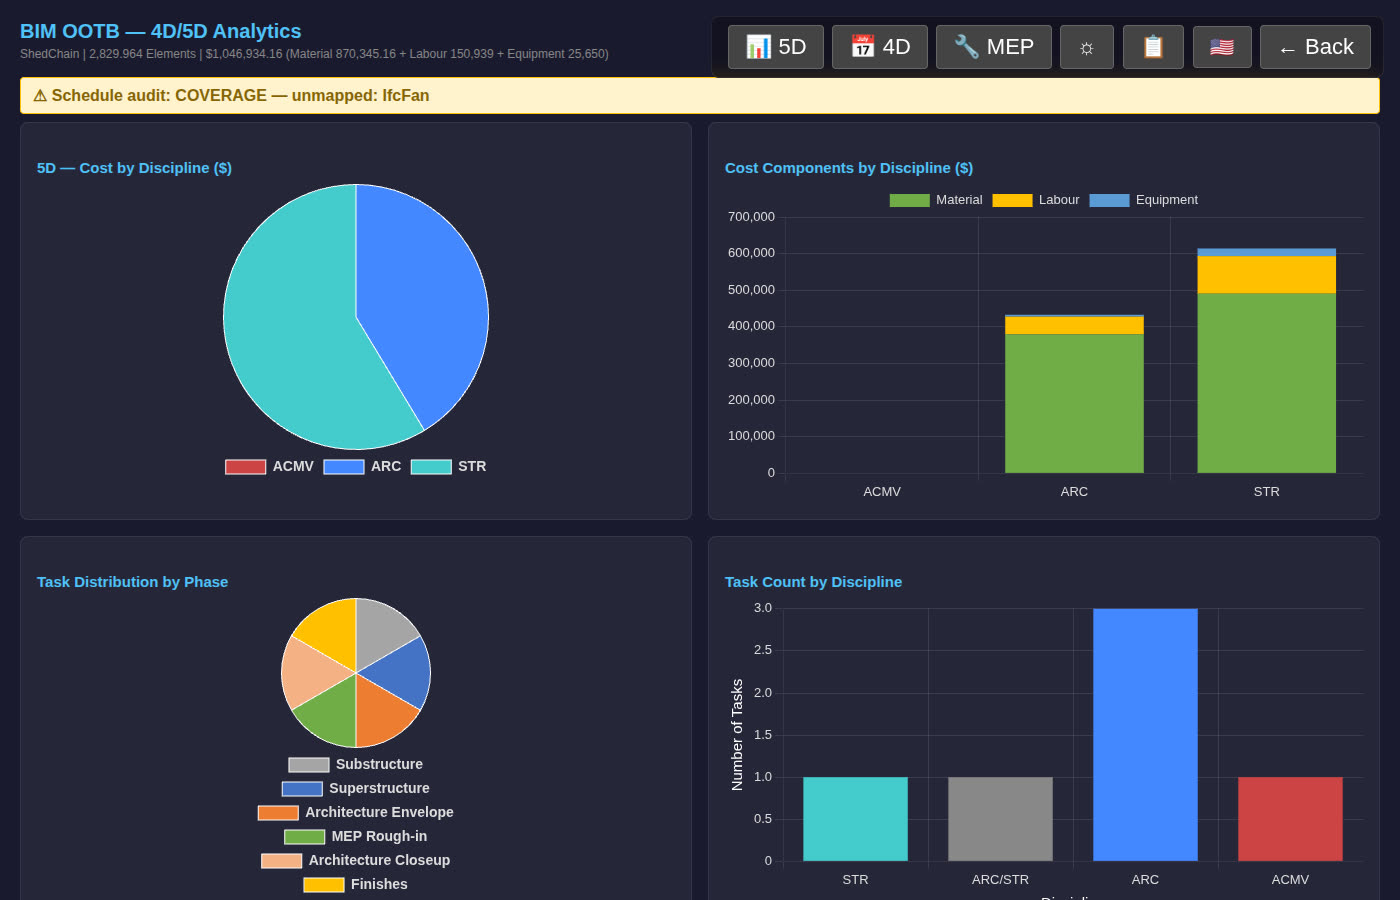
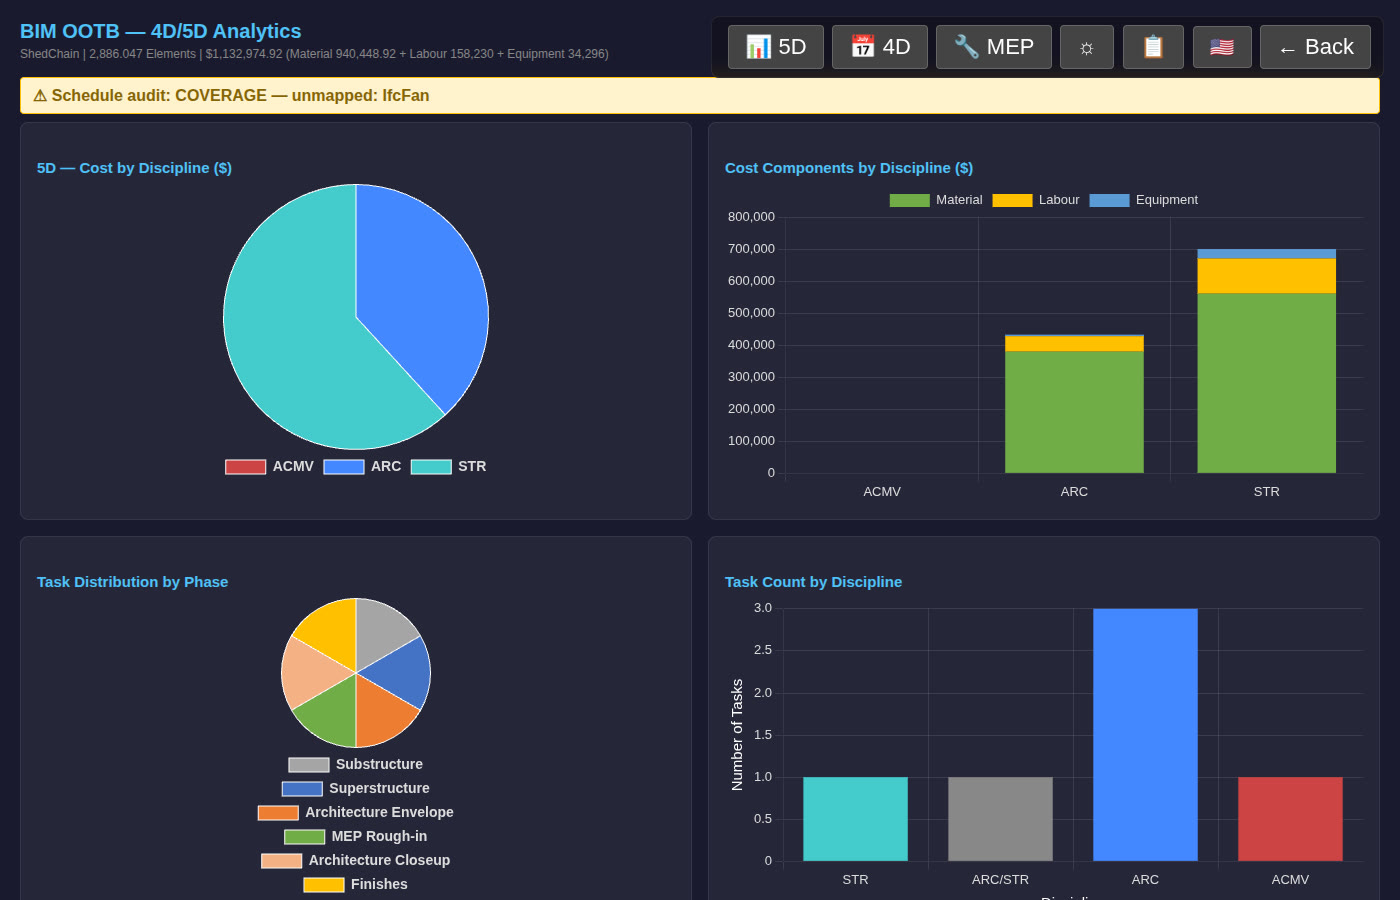
docs(DXF2BIM): nine-sheet shed (details sheet: notes, schedules, below-grade column), 512 bodies, 43 settings, re-measured POC numbers + screenshots, yellow list rows

diff --git a/docs/DXF2BIMGuide.md b/docs/DXF2BIMGuide.md
@@ -138,8 +138,9 @@ drawing and its schedule is reported (`GAP:schedule_conflict`), never silently r
 
 ## A building drawn only in 2D: a farm shed
 
-A common CAD set (here a BricsCAD drawing set saved as DXF) with **no 3D model behind it**: eight sheets, a floor
-plan, four elevations, a beam layout, a foundation plan and a truss section. There is no answer key, so the check
+A common CAD set (here a BricsCAD drawing set saved as DXF) with **no 3D model behind it**: nine sheets, a floor
+plan, four elevations, a beam layout, a foundation plan, a truss section and a details sheet (grades, casting
+ratios, footing and column schedules). There is no answer key, so the check
 is different: every body traces to a drawn entity, a setting you stated, or a **yellow default** you can see.
 The method (units, grid from dimension ticks, level and datum) is the same as above; what differs is that the
 building is made of **bodies** read from layers you type, not of walls and slabs.
@@ -156,12 +157,23 @@ building is made of **bodies** read from layers you type, not of walls and slabs
    would build false bodies (an expansion-joint strip).
 5. **Complete the building** (optional): adds the floor slab and gabled roof the drawings imply, in amber, with
    their thickness listed as yellow defaults.
-6. **Convert.** The whole shed lands on the canvas: 448 bodies (32 columns, 32 footings, 35 beams, 41 wall panels,
-   13 fans, 3 nets, 4 doors, the truss members and plates, a slab and a roof). Each body is in its **material's
+6. **Convert.** The whole shed lands on the canvas: 512 bodies (96 column parts: 32 columns, each with a below-grade
+   part and a grade-to-base part; 32 footings, 35 beams, 41 wall panels, 13 fans, 3 nets, 4 doors, the truss members
+   and plates, a slab and a roof). Each body is in its **material's
    standard colour** and carries its class, the drawing's own type label, its material, its storey and its
    **source** (sheet, handle, layer, how each size was obtained).
 
-![The converted shed on the canvas: material colours, 448 bodies](img/dxf2bim/shed_canvas.jpg)
+   **The details sheet.** A sheet that states notes but draws no body (it has no role) is accepted as a *notes sheet*,
+   not refused. Its text is read by a fixed grammar and carried as properties, each with the cell it came from:
+   the concrete grade (f'c, fy) on every concrete body, each casting ratio on exactly the elements it names (footing,
+   column, grade beam, floor: not the beams), and the **footing and column schedules**, read by cell position
+   against their headers, on the footings and columns (the schedule has one row per kind and the bodies carry no
+   type name, so the properties say *single schedule row*). The column schedule also states a larger section
+   **below grade** (14 x 14 in): each column then continues from its footing to grade at that section, with no
+   setting typed (a stated `@DEFAULT` still wins). Not built, because the drawings give only labels: the false
+   ceiling and the slats of the cross-section.
+
+![The converted shed on the canvas: material colours, 512 bodies](img/dxf2bim/shed_canvas.jpg)
 
 7. **Save and open elsewhere.** *Export → IFC4* writes the typed model with materials, colours and a property set
    `Pset_Dxf2Bim` (Provenance, SourceSheet, SourceHandle, SourceLayer, Kind, SizeBasis) per mesh. The usual
@@ -187,7 +199,7 @@ the wall faces to 0.004 mm. This proves the reading is self-consistent; it is no
 ## The yellow list: what you fill in, and the defaults used
 
 A drawing never states everything a model needs. **[The yellow list](DXF2BIM_Yellow_List.md)** gives, in one place:
-**(A)** the facts you are asked to state, **(B)** all 41 default settings with their value, whether it is a
+**(A)** the facts you are asked to state, **(B)** all 43 default settings with their value, whether it is a
 standard or a guess, and its basis, **(C)** the *Farming Shed* building-type values and their sources,
 **(D)** what *Complete the building* adds, **(E)** how drawn / derived / assumed evidence is shown, and
 **(F)** the items the shed drawings left open. You may ignore it: the defaults stay applied and every one is listed.
@@ -245,19 +257,19 @@ Every check has a deliberately broken control that must fail. Code is MIT licens
 
 ## Shed example POC: how long it takes and how big it is
 
-*Measured 2026-10-18 on one laptop (CPU only, headless browser with software rendering, no GPU), the real eight-sheet shed set, 2,368 CAD entities, about 0.9 MB of DXF in total. Times are wall-clock from the run logs; they exclude the time a person spends typing the facts in [the yellow list](DXF2BIM_Yellow_List.md).*
+*Measured 2026-10-19 on one laptop (CPU only, headless browser with software rendering, no GPU), the real nine-sheet shed set (with the details sheet), 2,943 CAD entities, about 1.05 MB of DXF in total. Times are wall-clock from the run logs; they exclude the time a person spends typing the facts in [the yellow list](DXF2BIM_Yellow_List.md).*
 
 | Step | Time | Output |
 |---|---|---|
-| Open the eight settings sheets to a verdict (*Qualifies*) | **2.0 s** | roles, grid, 445 bodies ready (448 with *Complete*) |
-| **Convert** to 3D: click to 448 bodies on the canvas | **0.18 s** | 448 bodies with material colours and metadata |
-| Export IFC4 in the page | 0.3 s | 731,626 bytes (about 0.7 MB) |
-| IFC → database (the in-browser extractor) | 0.66 s | **802,816 bytes (0.8 MB; 169 KB compressed)** |
-| Open that database in the Viewer, 3D fully rendered | 1.6 s | 448 elements |
-| The same whole shed from the command line (read sheets, 448 bodies, bill, IFC4) | **0.75 s** | about 190 MB of memory |
+| Open the nine settings sheets to a verdict (*Qualifies*) | **2.1 s** | roles, grid, 445 bodies ready (512 with *Complete*) |
+| **Convert** to 3D: click to 512 bodies on the canvas | **0.23 s** | 512 bodies with material colours and metadata |
+| Export IFC4 in the page | 0.4 s | 1,001,552 bytes (about 1.0 MB) |
+| IFC → database (the in-browser extractor) | 0.5 s | **1,118,208 bytes (1.1 MB; about 230 KB compressed)** |
+| Open that database in the Viewer, 3D fully rendered | 2.3 s | 512 elements |
+| The same whole shed from the command line (read sheets, 512 bodies, bill, IFC4) | **0.88 s** | about 198 MB of memory |
 
-So the machine part, from an opened set of sheets to a rendered Viewer, is **about five seconds**; the 3D itself appears in under a fifth of a second after Convert. The three-minute film is slow because it narrates and types, not because the software is.
+So the machine part, from an opened set of sheets to a rendered Viewer, is **about five and a half seconds**; the 3D itself appears in under a quarter of a second after Convert. The five-minute film is slow because it narrates and types, not because the software is.
 
-The database holds 448 elements (about 150 KB is mesh geometry across 125 distinct shapes, about 270 KB the per-mesh provenance rows with their index, the rest names, materials, colours and bounding boxes). A 0.9 MB set of drawings becomes a 0.8 MB database.
+The database holds 512 elements (about 160 KB is mesh geometry across 133 distinct shapes, about 550 KB the per-mesh provenance and notes rows (4,961 rows) with their index, the rest names, materials, colours and bounding boxes). A 1.05 MB set of drawings becomes a 1.1 MB database. (The compressed size and the split by table were measured on the equivalent page-extracted database of the film take, same pipeline.)
 
 A caution on method: this is one machine and one building, measured by the run logs, not a benchmark; a larger building will take longer (the Hospital extraction in the Node CLI takes minutes). An earlier measurement of the command-line extractor looked slow (16 s) because every row was its own disk commit; that is fixed in the extractor (0.4 s), and the numbers above use the fixed one.

diff --git a/docs/DXF2BIM_Yellow_List.md b/docs/DXF2BIM_Yellow_List.md
@@ -15,6 +15,7 @@ A 2D drawing carries only some of what a model needs. Everything it does not sta
 | **Body heights nothing draws** (e.g. footing depth from a detail, beam depth range) | Body heights section → `@BODYZ` | no elevation shows a buried footing |
 | **Areas to leave out** (e.g. an expansion-joint strip that looks like a beam) | Exclude areas → `@EXCLUDE` | the joint would become a false beam |
 | **A stated size** where a label and the drawn length disagree (e.g. a beam drawn 10 in deep, labelled 12 in) | Stated sizes section → `@SIZE` | the label's number is used; you may correct it |
+| **A details sheet** (optional): a sheet of notes and schedules with no body layers | add it to the set; nothing to type | its text states the concrete grade, casting ratios and the footing / column schedules; it is read, never guessed, and a column schedule's below-grade section replaces a typed setting |
 | **Building type** (`General` or `Farming Shed`) | Element defaults → Building type | selects cited type-specific defaults |
 | Anything in section B you know better | Element defaults → type a value and **Set** | the default is a guess or a standard value, not your fact |
 
@@ -51,6 +52,8 @@ A 2D drawing carries only some of what a model needs. Everything it does not sta
 | `railing.post_spacing` | IfcRailing | m | **1.2** | guess | typical post spacing | 1.0, 1.2, 1.5 |
 | `ramp.slope` | IfcRamp | ratio | **0.0833** | guess | 1:12, a typical accessible ramp | 0.0625, 0.0833, 0.1 |
 | `roof.slope_deg` | IfcRoof | deg | **15.0** | guess | typical light roof pitch; used only when no gable or section gives the slope | 10, 15, 17.5, 22.5 |
+| `synth.column.belowgrade.size` | IfcColumn | m | **0** | guess | 0 = not stated: no below-grade column is built; a column schedule that states the section (e.g. 14 x 14 in = 0.3556) sets it, an explicit value overrides the schedule | |
+| `synth.column.grade_to_base` | IfcColumn | m | **0.6096** | guess | grade to the column base (plinth): 2 ft, the datum read from a column detail | |
 | `synth.roof.overhang` | IfcRoof | m | **0.0** | guess | the roof is cut at the gable planes until an overhang is stated | 0, 0.4572, 0.6 |
 | `synth.roof.sheet_thickness` | IfcRoof | m | **0.0254** | guess | display thickness of a roofing sheet (1 in); the cost is by area | 0.0254, 0.05 |
 | `synth.slab.footprint` | IfcSlab | text | **outermost grid lines** | guess | the slab edge is taken at the outermost grid lines of the base plan | outermost grid lines |
@@ -82,7 +85,7 @@ It also lists the components a farming shed is expected to contain (fans, nets/p
 
 ## D. What *Complete the building* adds (amber, estimated)
 
-Ticking **Complete the building** adds a floor slab and the gabled roof the drawings imply. They are computed from drawn evidence plus the stated conventions `synth.slab.*` and `synth.roof.*` above, shown **amber** (derived), and their defaults are listed in yellow.
+Ticking **Complete the building** adds a floor slab and the gabled roof the drawings imply, and, where a column schedule states a section below grade, the **below-grade column parts** (footing top to grade at that section, grade to the base at the column's own section; `synth.column.*`). They are computed from drawn evidence plus the stated conventions `synth.slab.*` and `synth.roof.*` above, shown **amber** (derived), and their defaults are listed in yellow.
 
 ## E. How evidence is shown
 
@@ -107,6 +110,10 @@ By default the canvas shows each body in its **material's standard colour** (dis
 | Door height | **drawn** when the elevation's door-frame layer is typed (96 / 94 in on the shed), else 2.1 m |
 | Four unlabelled 21.7 in swings with no open leaf | listed, not built (they sweep 75°, not a door's quarter turn) |
 | Evaporative pads | not built: labelled, but no outline or length is drawn |
+| False ceiling, slats (cross-section) | not built: labelled on the section, no closed plane, size or spacing is drawn |
+| Polythene and compacted sand under the slab | not built: labelled, no thickness stated |
+| Footing top: the detail section sums footing top to plinth to 84 in, the stated footing height (`@BODYZ`) puts it 69 in below the plinth | the stated value is kept; the 15 in difference is listed here |
+| Beam reinforcement | not read: bars are labels on the section drawings, not a schedule (only the footing and column schedules are read) |
 | 24 in "support wall" text against the 96 / 98 in brick drawn on the elevations | both kept; the brick is built as drawn |
 | A beam drawn 10 in deep but labelled 12 in | conflict row; the label's number is used |
 | `410'-0"` dimension text against 1,560 in drawn | conflict row in the dimension audit |

diff --git a/docs/DXF2BIM_Prior_Art.md b/docs/DXF2BIM_Prior_Art.md
@@ -22,7 +22,7 @@
 *"Not found" means not found in this search, not "does not exist".* Each item is something you can check in the tool.
 
 1. **No guessing, and the gaps are the product.** A value the drawing does not state is a visible **yellow** setting with its basis ([the yellow list](DXF2BIM_Yellow_List.md)), never a silent default. The vendor tools above apply default heights and thicknesses at generation; ours records which ones were applied, how sure the source is (**std** or **guess**), and keeps your overrides **inside the drawing set** as markings.
-2. **Provenance on every body.** Each element carries the sheet, the entity handle, the layer and how each size was obtained (drawn, derived, assumed). It survives into the IFC (`Pset_Dxf2Bim`) and the database.
+2. **Provenance on every body.** Each element carries the sheet, the entity handle, the layer and how each size was obtained (drawn, derived, assumed). It survives into the IFC (`Pset_Dxf2Bim`, which also carries the concrete grade, casting ratios and schedule rows a details sheet states) and the database.
 3. **Deterministic, no AI on your drawings.** Same drawings, same markings, same model, byte for byte; no recognition rate to quote because nothing is recognised by a model. The price is that you state the few facts a drawing cannot.
 4. **Proof against an answer key.** The Duplex was written to a standard 2D set and rebuilt within 1 mm of the source model (96 wall pieces, 2 slabs, 1 roof, 14 doors, 22 windows). Where there is no 3D model (the shed), the rebuilt model is written back to 2D and compared with the original sheets: columns, grid lines and doors within 0.02 mm. We do not claim this for "any DXF".
 5. **The settings travel in the DXF itself** (layer `DXF2BIM-MARK`, plain text), so the file stays an ordinary DXF in any CAD program. No sidecar.
@@ -34,7 +34,7 @@
 
 | From | What we took | What we did differently |
 |---|---|---|
-| **WiseBIM AI** | The user must fix the **scale** first and give default heights, sill, thickness per class. | Units are **confirmed by you** (the file header is shown, never applied by itself); the defaults are a registry of 41 listed settings, not parameters buried in a dialog. |
+| **WiseBIM AI** | The user must fix the **scale** first and give default heights, sill, thickness per class. | Units are **confirmed by you** (the file header is shown, never applied by itself); the defaults are a registry of 43 listed settings, not parameters buried in a dialog. |
 | **ARCHLine.XP Blueprint** | Pattern recognition meets limits (the vendor warns about pergolas). | We chose not to recognise: a layer name is not evidence, so **you type what each layer is**. |
 | **CYPE** | Treat the DXF as a **template** and keep a separate module for it. | Our reader is one module set, MIT, not a paid add-on. |
 | **CrossBIM** | The simplest honest tables: **layer → dimensions per category**, typed by the user. | Readable source, provenance, gap reporting; the tables live in the DXF, not a web form. |
